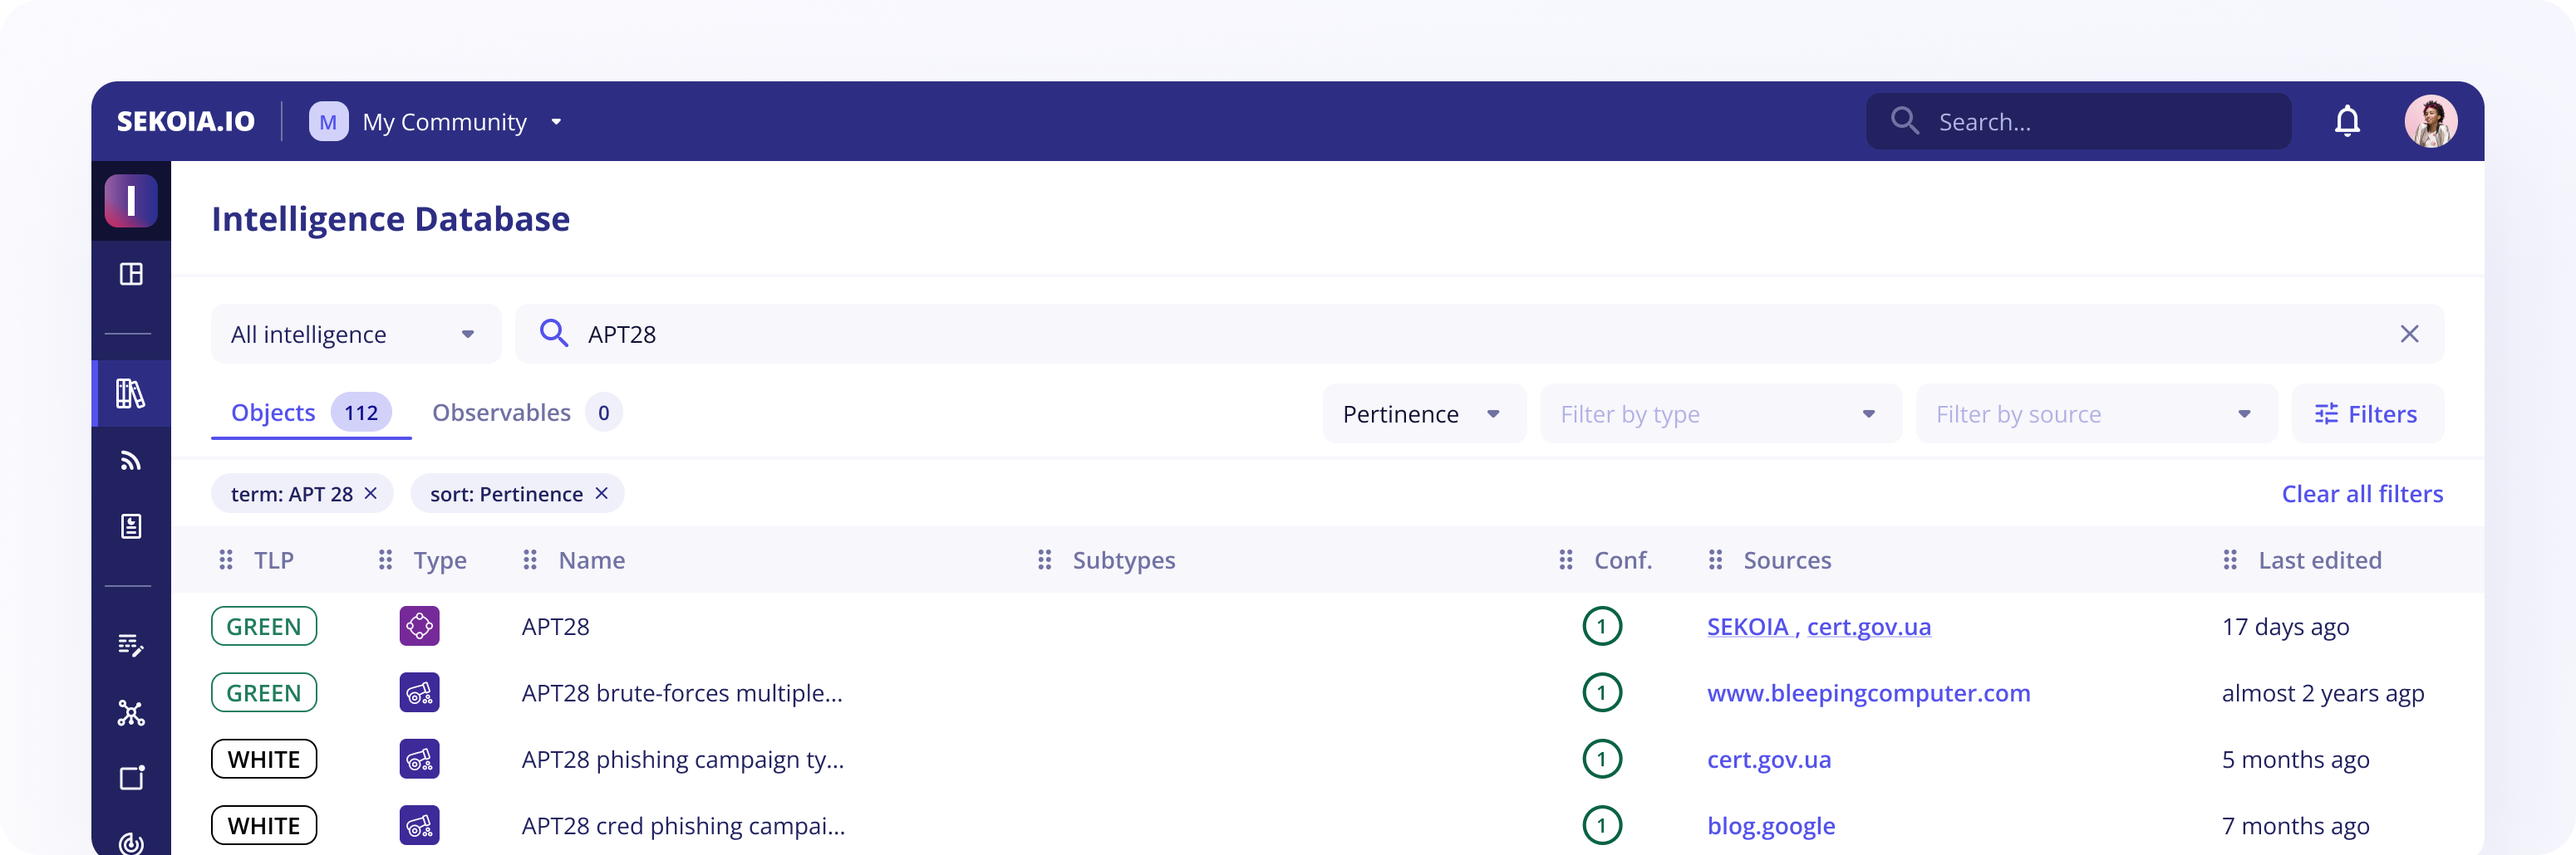
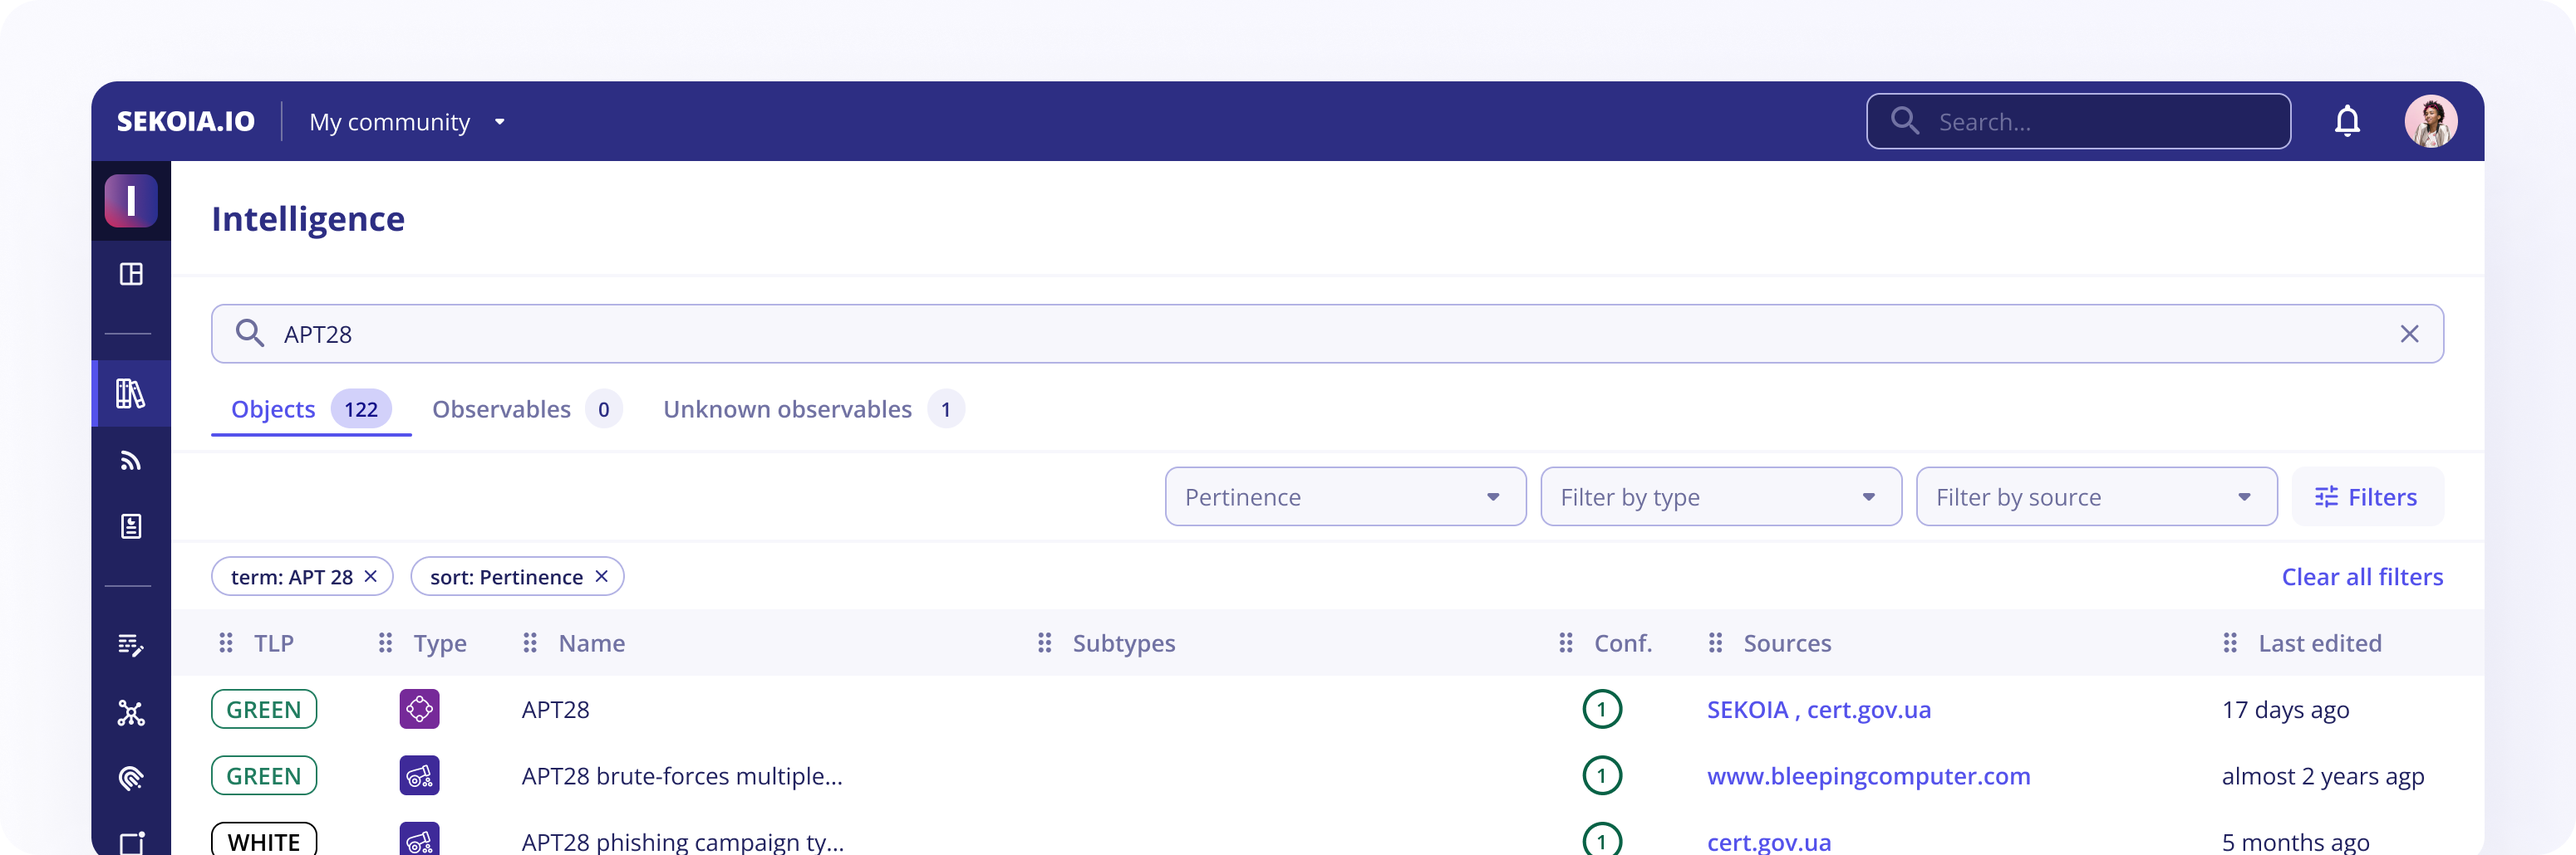
Provide more information on Intelligence doc

diff --git a/_shared_content/intelligence_center/consume/intelligence.md b/_shared_content/intelligence_center/consume/intelligence.md
@@ -4,6 +4,12 @@
 
 Looking for a Threat actor? A specific Malware? A report on a topic of interest? Or a URL that looks suspicious? The Intelligence page possesses a search engine with complex filtering capabilities to navigate through millions of data. This threat knowledge base is updated on a daily basis by SEKOIA.IO analysts to make sure all kinds of threats are covered. 
 
+
+
+## How to search
+
+### Search bars
+
 The two ways to find what you need in the knowledge base is to: 
 
 1. Use the search bar embedded in the header. It’s accessible from any page of the Intelligence Center and enables a quick search in the database. 
@@ -11,26 +17,31 @@ The two ways to find what you need in the knowledge base is to:
 
 ![Intelligence-search](/assets/intelligence_center/intelligence%20search.png){: style="max-width:100%"}
 
-## How to search
+You can search for **multiple items at the same time**. To skip a line and paste multiple items, press `Shift-Enter` and paste your content. 
 
-You can either search in all the database or only in the objects or the observables database. To do so, use the select on the left of the search bar to select the needed scope. 
+
+!!! tip
+    You can easily open multiple search results in new tabs by right-clicking on an object and using your mouse, `option+click` (for Mac), or `shift+click` (for Windows).
+
 
 ### Tabs
 
-After you’ve typed your search and clicked on `enter`, two tabs appear under the search bar: one for objects and one for observables. 
+After you’ve typed your search and clicked on `enter`, two or three tabs appear under the search bar: one for **objects**, one for **observables** and one for **unknown observables**. 
 
-Each tab has a counter that informs users about the number of items in the database for each category. 
+You can refer to [this page](/_shared_content/intelligence_center/data_model.md) to understand what objects and observables are and how our data model works. 
+
+Each tab has a counter that informs users about the **number of items** in the database for each category. 
 
 For instance, if you search for `Google`, you will find numerous objects (reports, Intrusion sets, Indicators…) but only two observables. 
 
 !!! tip
-    Always check both tabs to be sure to get all information needed on a topic. Observables may not be harmful but they can be helpful in an investigation.
+    Always check all tabs to be sure to get all information needed on a topic. Observables may not be harmful but they can be helpful in an investigation.
 
 ## Search for objects
 
 ### How the search engine works
 
-When searching for a term, SEKOIA.IO will list objects with fields that match the term. 
+When searching for a term or multiple terms, Sekoia.io will list objects with fields that match the term(s). 
 
 The following fields are taken into consideration by the search engine: 
 
@@ -41,10 +52,16 @@ The following fields are taken into consideration by the search engine:
 - External references
 - The location’s country code (if the search term contains 2 characters)
 
-By default, search results are sorted by **relevance**, but you can choose to display them by the last edition date.
+By default, search results are sorted by **pertinence**, but you can choose to display them by the **last edition date**.
 
 !!! Tip
     When the search contains multiple words, it can be useful to see the results matching exactly what has been entered. Putting the search between quotes (`" "`) will search for objects containing the exact term in one of their fields.
+
+!!! Note 
+    The search bar is **tokenized**. It means that if the user searches for `FLINT 2022-05` it will look for `FLINT`, `2022` and `05` and then apply scoring depending on the attribute the value was found in and the number of times it was found.
+    
+    To get only the item where the name starts with `FLINT 2022-05`, this dork search can be performed: `name:^"FLINT 2022-05"`
+
 
 ### Table Columns
 
@@ -95,6 +112,8 @@ To remove a filter, just click on the `cross` inside the tag. To remove all filt
 
 ## Search for observables
 
+### How the search engine works
+
 When searching for observables, SEKOIA.IO will investigate the field `x_inthreat_short_display`, a custom attribute that is equal to the main value of the observable (`value` for IP, `name` for organizations, ...).
 
 If the search is a hash, the search engine will consider the number of characters and look for the right hashes. 
@@ -108,9 +127,6 @@ If the search is a hash, the search engine will consider the number of character
 
 If the search is an IP CIDR, the search engine will look for the IPs contained in it: `185.213.83.0/24` will return `185.213.83.102`, `185.213.83.106`, ...
 
-### Search for multiple observables
-
-To search for a list of observables, you can paste a list of values and search for them in bulk (multiple lines). To skip a line and paste multiple observables, press `Shift-Enter` and paste your content. 
 
 ### Known and unknown observables
 
